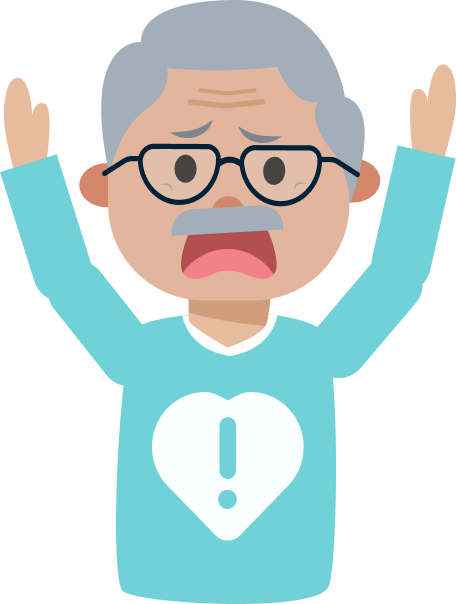
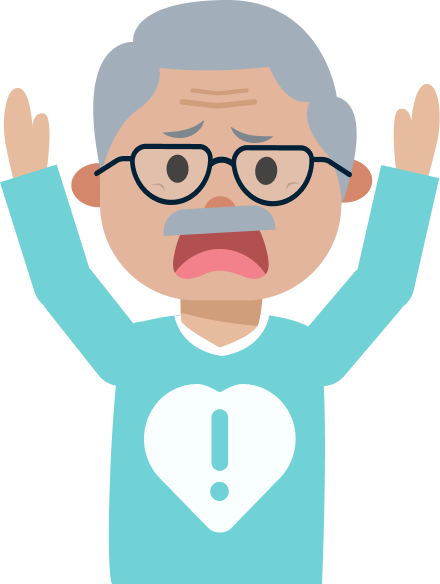
feat: #CURA-195-Update new male png

diff --git a/src/components/AnimatedElderAvatar.jsx b/src/components/AnimatedElderAvatar.jsx
@@ -1,4 +1,5 @@
 import Lottie from "lottie-react-native";
+import { useEffect, useState } from "react";
 import { useWindowDimensions } from "react-native";
 
 
@@ -6,31 +7,44 @@ const AnimatedElderAvatar = ({ heartRateDetail, heartRateThreshold }) => {
 
   let { width, height } = useWindowDimensions();
 
+  const [indicator, setIndicator] = useState("normal"); // ["normal", "critical", "nearCritical"]
+  const [avatarSource, setAvatarSource] = useState(require("../assets/lottie/male/male_normalbpm.json"));
 
   const bpm = heartRateDetail?.latestHeartRateRecord?.[0]?.beatsPerMinute;
+  console.log("bpm", bpm);
   const minThreshold = heartRateThreshold?.detail?.minimum;
+  console.log("minThreshold", minThreshold);
   const maxThreshold = heartRateThreshold?.detail?.maximum;
+  console.log("maxThreshold", maxThreshold);
 
-  let avatarSource;
-  let indicator;
 
-  if (bpm < minThreshold || bpm > maxThreshold) {
-    indicator = "critical";
-  } else if (bpm >= minThreshold - 10 && bpm <= maxThreshold + 10) {
-    indicator = "nearCritical";
-  } else {
-    indicator = "normal";
-  }
+  useEffect(() => {
+    if (bpm < minThreshold || bpm > maxThreshold) {
+      setIndicator("critical");
+    } else if (bpm >= minThreshold - 10 && bpm <= maxThreshold + 10) {
+      setIndicator("nearCritical");
+    } else {
+      setIndicator("normal");
+    }
+  }, [bpm, minThreshold, maxThreshold]);
 
-  //if indicator is normal, display male_normalbpm
-  if (indicator === "normal") {
-    avatarSource = require("../assets/lottie/male/male_normalbpm.json");
-  } else if (indicator === "critical") {
-    avatarSource = require("../assets/lottie/male/male_criticalbpm.json");
-  } else if (indicator === "nearCritical") {
-    // use normal avatar for now since it causes confusion
-    avatarSource = require("../assets/lottie/male/male_normalbpm.json");
-  }
+  useEffect(() => {
+    // Update avatar source based on the indicator
+    switch (indicator) {
+      case "normal":
+        setAvatarSource(require("../assets/lottie/male/male_normalbpm.json"));
+        break;
+      case "critical":
+        setAvatarSource(require("../assets/lottie/male/male_criticalbpm.json"));
+        break;
+      case "nearCritical":
+        // Use normal avatar for now since it causes confusion
+        setAvatarSource(require("../assets/lottie/male/male_normalbpm.json"));
+        break;
+      default:
+        setAvatarSource(require("../assets/lottie/male/male_normalbpm.json"));
+    }
+  }, [indicator]);
 
 
   let avatarHeight;

diff --git a/src/screens/HeartRate/CriticalHeartRateScreen.js b/src/screens/HeartRate/CriticalHeartRateScreen.js
@@ -53,10 +53,9 @@ export default function CriticalHeartRateScreen() {
           source={require("../../assets/images/character/maleCritical.png")}
           style={{
             width: 120,
-            height: 160,
+            height: 150,
             position: "absolute",
             zIndex: 10,
-
             transform: [
               {
                 translateX: width / 2 - 80,
@@ -64,8 +63,7 @@ export default function CriticalHeartRateScreen() {
             ],
 
             //crop the image to the size of the parent
-            top: 5,
-
+            bottom: 0,
             resizeMode: "contain",
           }}
         />
@@ -106,7 +104,7 @@ export default function CriticalHeartRateScreen() {
               heartrateLog.notificationLog.map((item, index) => (
                 <View
                   key={item.id}
-                  className="flex flex-row py-6 bg-curaWhite space-x-2 "
+                  className="flex flex-row py-4 bg-curaWhite space-x-2 "
                 >
                   <IconBtn
                     name={

diff --git a/src/navigation/AppNavigator.js b/src/navigation/AppNavigator.js
@@ -7,7 +7,7 @@ import ProfileSetupSuccess from "../screens/Signup/ProfileSetupSuccess";
 import CaregiverProfileSetup from "../screens/Signup/CaregiverProfileSetup";
 
 // Animated Tab Bar
-import TabAnimated from "./TabAnimated";
+// import TabAnimated from "./TabAnimated";
 import TabElder from "./TabElder";
 import TabCaregiver from "./TabCaregiver";
 import { useNavigation } from "@react-navigation/native";
